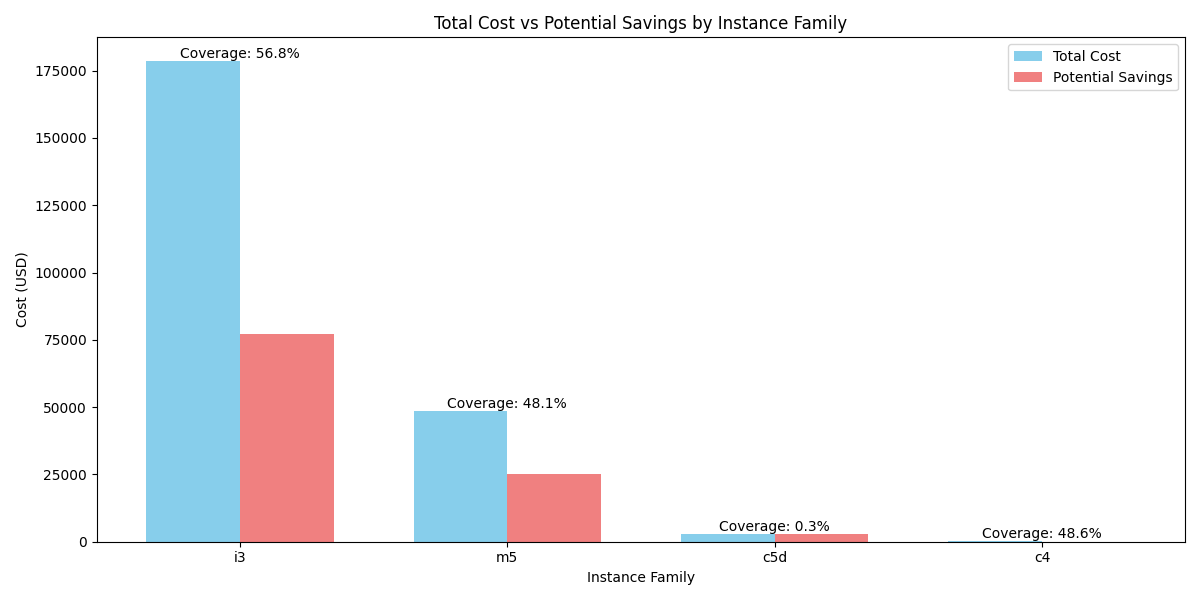
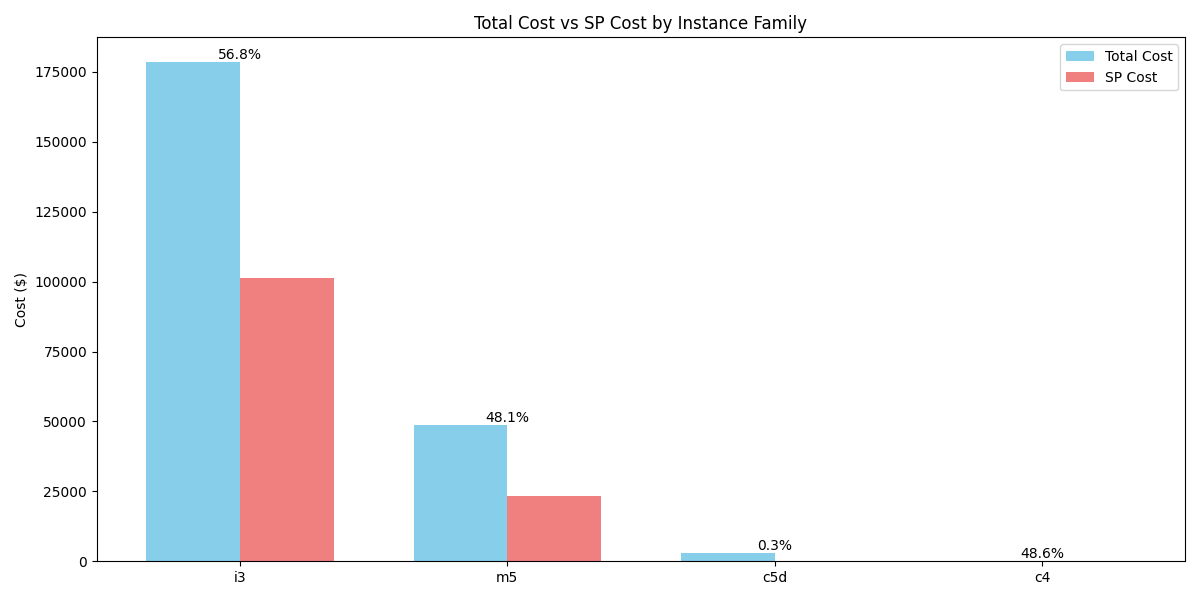
Fix: package version conflict

diff --git a/cdk/lib/sagemakerNotebookStack/sagemakerNotebookStack.ts b/cdk/lib/sagemakerNotebookStack/sagemakerNotebookStack.ts
@@ -21,36 +21,36 @@ export class SagemakerNotebookStack extends cdk.Stack {
     });
     
     // Create a lifecycle configuration to handle repository setup
-    const lifecycleConfig = new sagemaker.CfnNotebookInstanceLifecycleConfig(this, 'FinopsNotebookLifecycleConfig', {
-      notebookInstanceLifecycleConfigName: 'finops-notebook-lifecycle-config',
-      onCreate: [
-        {
-          content: cdk.Fn.base64(`
-            #!/bin/bash
-            set -e
-            # No need to clone the repository as it's handled by defaultCodeRepository
-            # Just ensure proper permissions
-            cd /home/ec2-user/SageMaker
-            if [ -d "finops-demo" ]; then
-              sudo chown -R ec2-user:ec2-user finops-demo
-              echo "Repository permissions set successfully"
-            fi
-            `)
-        }
-      ],
-      onStart: [
-        {
-          content: cdk.Fn.base64(`
-            #!/bin/bash
-            set -e
-            cd /home/ec2-user/SageMaker/finops-demo
-            git config --global --add safe.directory /home/ec2-user/SageMaker/finops-demo
-            git pull
-            echo "Repository updated successfully"
-            `)
-        }
-      ]
-    });
+    // const lifecycleConfig = new sagemaker.CfnNotebookInstanceLifecycleConfig(this, 'FinopsNotebookLifecycleConfig', {
+    //   notebookInstanceLifecycleConfigName: 'finops-notebook-lifecycle-config',
+    //   onCreate: [
+    //     {
+    //       content: cdk.Fn.base64(`
+    //         #!/bin/bash
+    //         set -e
+    //         # No need to clone the repository as it's handled by defaultCodeRepository
+    //         # Just ensure proper permissions
+    //         cd /home/ec2-user/SageMaker
+    //         if [ -d "finops-demo" ]; then
+    //           sudo chown -R ec2-user:ec2-user finops-demo
+    //           echo "Repository permissions set successfully"
+    //         fi
+    //         `)
+    //     }
+    //   ],
+    //   onStart: [
+    //     {
+    //       content: cdk.Fn.base64(`
+    //         #!/bin/bash
+    //         set -e
+    //         cd /home/ec2-user/SageMaker/finops-demo
+    //         git config --global --add safe.directory /home/ec2-user/SageMaker/finops-demo
+    //         git pull
+    //         echo "Repository updated successfully"
+    //         `)
+    //     }
+    //   ]
+    // });
     
     // SageMaker Notebook Instance
     const cfnNotebookInstance = new sagemaker.CfnNotebookInstance(this, 'MyCfnNotebookInstance', {
@@ -60,7 +60,7 @@ export class SagemakerNotebookStack extends cdk.Stack {
       directInternetAccess: 'Enabled',
       notebookInstanceName: 'finops-notebook-instance',
       volumeSizeInGb: 50,
-      lifecycleConfigName: lifecycleConfig.notebookInstanceLifecycleConfigName,
+      // lifecycleConfigName: lifecycleConfig.notebookInstanceLifecycleConfigName,
     });
   }
 }

diff --git a/application/graph.py b/application/graph.py
@@ -245,6 +245,9 @@ class Text2SqlHandler:
             hint=hint
         )
         generated_query = self.builder.bedrock_client.invoke(sys_prompt, usr_prompt, node_name=node_name)
+        # if self.builder.dialect.lower() == "postgresql":
+        #     generated_query = re.sub(r'FROM\s+cur\.', 'FROM dev.public.', generated_query, flags=re.IGNORECASE)
+        #     generated_query = re.sub(r'JOIN\s+cur\.', 'JOIN dev.public.', generated_query, flags=re.IGNORECASE)
         
         # Validate the generated query
         valid_services = self.get_valid_service_codes()
@@ -288,10 +291,10 @@ class Text2SqlHandler:
             try:
                 explain_query = explain_statements[dialect.lower()].format(query=query)
                 
-                # # DIALECT가 postgresql인 경우에만 cur. -> dev.public. 으로 변경
-                # if self.builder.dialect.lower() == "postgresql":
-                #     explain_query = re.sub(r'FROM\s+cur\.', 'FROM dev.public.', explain_query, flags=re.IGNORECASE)
-                #     explain_query = re.sub(r'JOIN\s+cur\.', 'JOIN dev.public.', explain_query, flags=re.IGNORECASE)
+                # DIALECT가 postgresql인 경우에만 cur. -> dev.public. 으로 변경
+                if self.builder.dialect.lower() == "postgresql":
+                    explain_query = re.sub(r'FROM\s+cur\.', 'FROM dev.public.', explain_query, flags=re.IGNORECASE)
+                    explain_query = re.sub(r'JOIN\s+cur\.', 'JOIN dev.public.', explain_query, flags=re.IGNORECASE)
                 
                 with self.builder.Session() as session:
                     result = session.execute(text(explain_query))
@@ -324,10 +327,10 @@ class Text2SqlHandler:
         query_state = copy.deepcopy(state["query_state"])
         query = query_state["query"]
         
-        # # DIALECT가 postgresql인 경우에만 cur. -> dev.public. 으로 변경
-        # if self.builder.dialect.lower() == "postgresql":
-        #     query = re.sub(r'FROM\s+cur\.', 'FROM dev.public.', query, flags=re.IGNORECASE)
-        #     query = re.sub(r'JOIN\s+cur\.', 'JOIN dev.public.', query, flags=re.IGNORECASE)
+        # DIALECT가 postgresql인 경우에만 cur. -> dev.public. 으로 변경
+        if self.builder.dialect.lower() == "postgresql":
+            query = re.sub(r'FROM\s+cur\.', 'FROM dev.public.', query, flags=re.IGNORECASE)
+            query = re.sub(r'JOIN\s+cur\.', 'JOIN dev.public.', query, flags=re.IGNORECASE)
         
         try:
             with self.builder.Session() as session:

diff --git a/application/config.py b/application/config.py
@@ -1,5 +1,4 @@
 import os
-import boto3
 from dotenv import load_dotenv
 
 load_dotenv("./.env")
@@ -23,14 +22,16 @@ DATABASE_NAME = os.getenv("DATABASE_NAME", "")
 if DIALECT == "amazon_athena":    
     ATHENA_REGION = os.getenv("ATHENA_REGION", "us-east-1")
     ATHENA_RESULTS_S3_BUCKET = os.getenv("ATHENA_RESULTS_S3_BUCKET", "")
-    DATABASE_CONNECTION_STRING = f"awsathena+rest://@athena.{ATHENA_REGION}.amazonaws.com:443/{DATABASE_NAME}?s3_staging_dir={ATHENA_RESULTS_S3_BUCKET}"
+    DATABASE_PORT = os.getenv("DATABASE_PORT", "443")
+    DATABASE_CONNECTION_STRING = f"awsathena+rest://@athena.{ATHENA_REGION}.amazonaws.com:{DATABASE_PORT}/{DATABASE_NAME}?s3_staging_dir={ATHENA_RESULTS_S3_BUCKET}"
 
 elif DIALECT == "postgresql": # redshift
     REDSHIFT_REGION = os.getenv("REDSHIFT_REGION", "us-east-1")
     DATABASE_USERNAME=os.getenv("DATABASE_USERNAME", "admin")
     DATABASE_PASSWORD=os.getenv("DATABASE_PASSWORD", "")
     DATABASE_HOST=os.getenv("DATABASE_HOST", "")
-    DATABASE_CONNECTION_STRING = f"postgresql://{DATABASE_USERNAME}:{DATABASE_PASSWORD}@{DATABASE_HOST}" # redshift-connector 수정 필요 
+    DATABASE_PORT=os.getenv("DATABASE_PORT", "5439")
+    DATABASE_CONNECTION_STRING = f"postgresql+psycopg2://{DATABASE_USERNAME}:{DATABASE_PASSWORD}@{DATABASE_HOST}:{DATABASE_PORT}/{DATABASE_NAME}?sslmode=require"
 
 else: # other db engines
     DATABASE_USERNAME=os.getenv("DATABASE_USERNAME", "")
